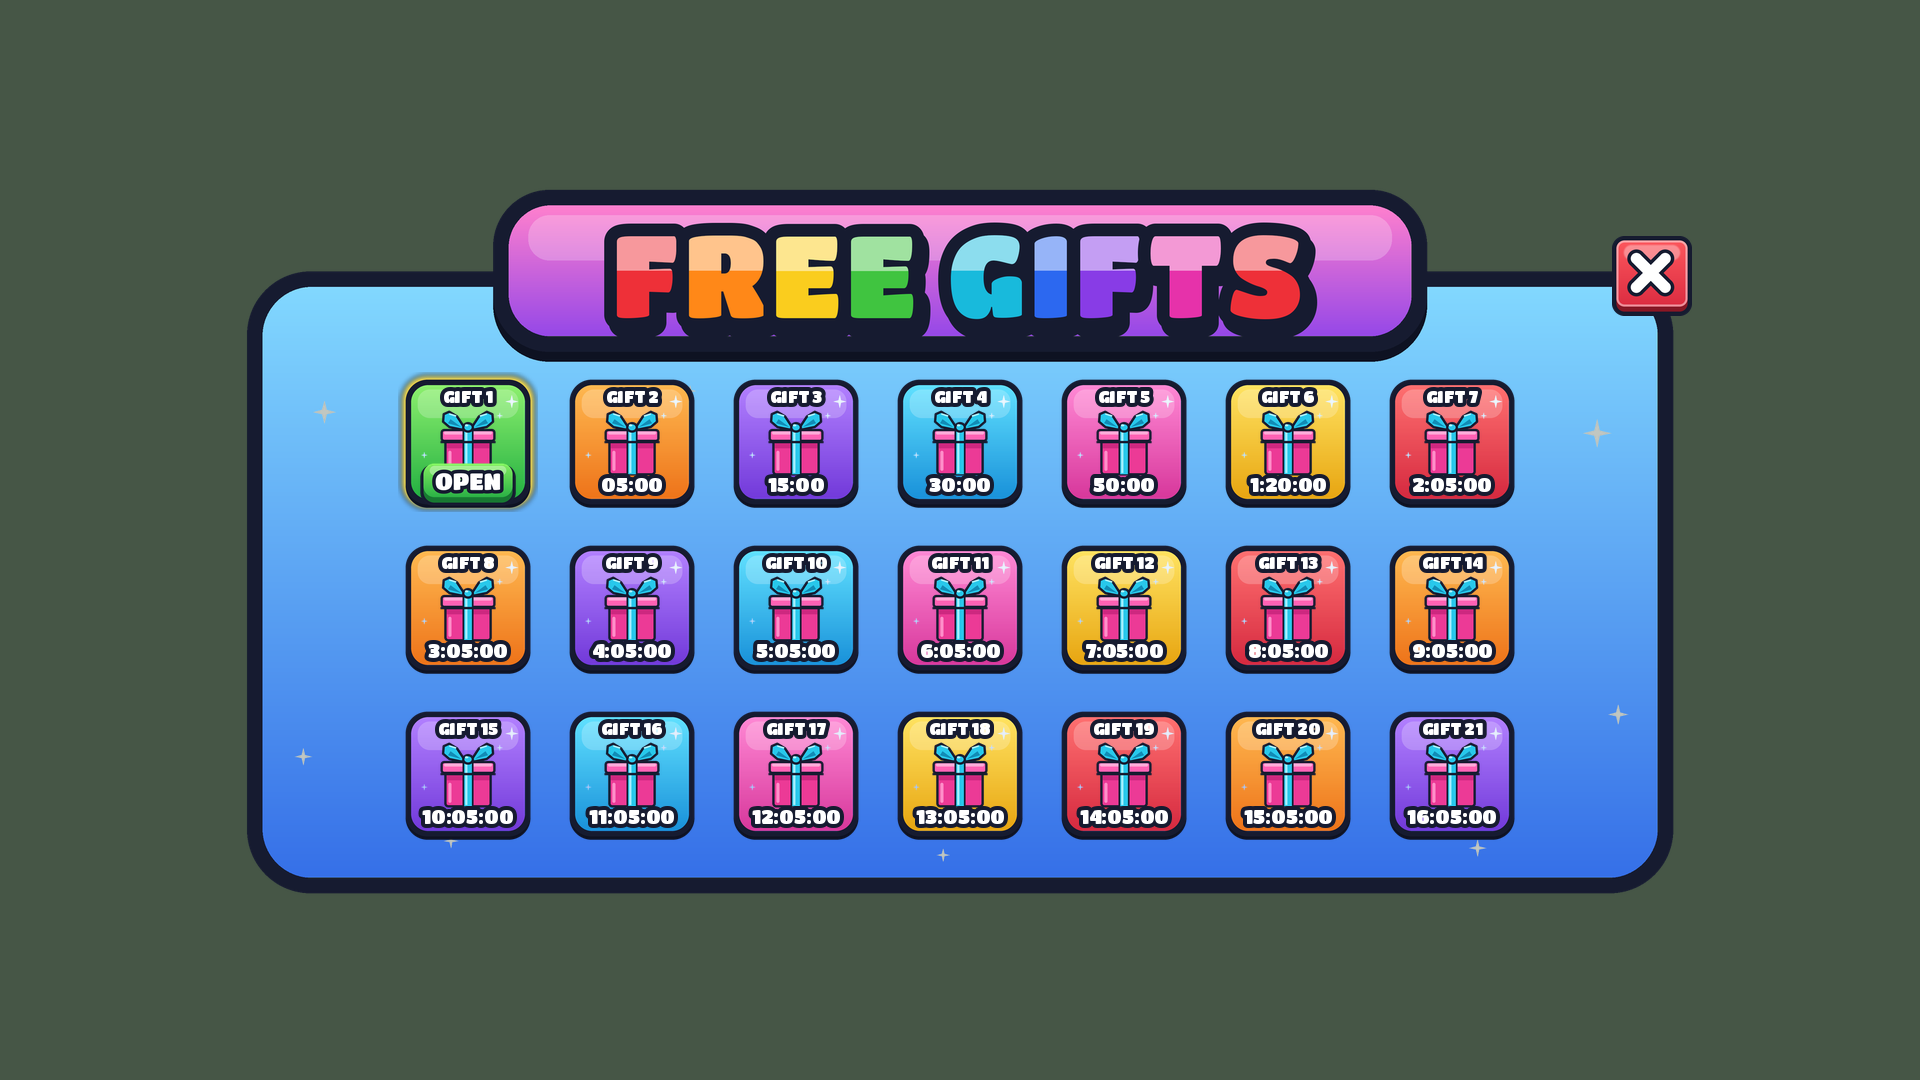
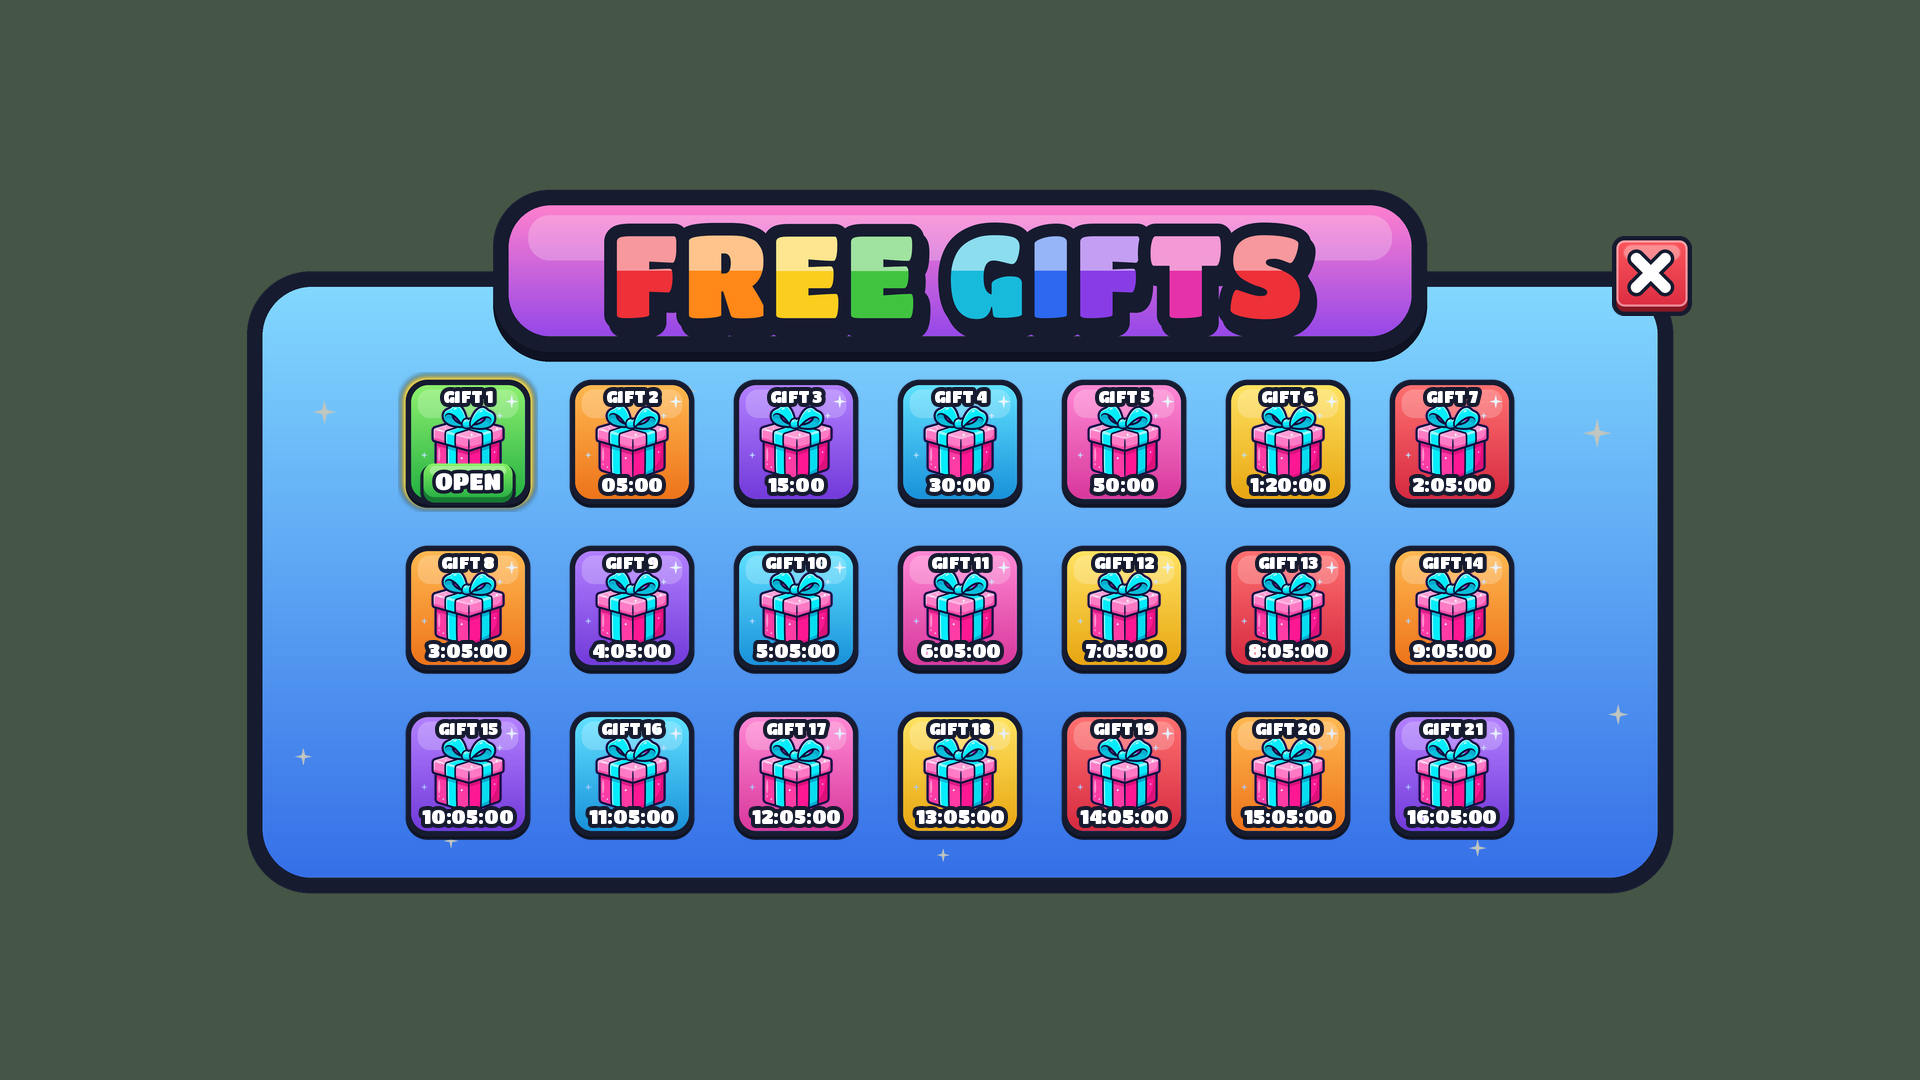
Cadeaux : icone = le cadeau Gemini du joueur, bien detoure
Claude-Session: https://claude.ai/code/session_01PMKoCjSrSzXqgN9hvh9Gpz

diff --git a/Outils/cadeau_ui.py b/Outils/cadeau_ui.py
@@ -187,13 +187,13 @@ COULEURS = [((255, 112, 112), (214, 42, 64)), ((255, 184, 80), (238, 116, 26)), 
 if __name__ == "__main__":
     os.makedirs(SORTIE, exist_ok=True)
     for vieux in os.listdir(SORTIE):
-        if vieux.endswith(".png"):
+        if vieux.endswith(".png") and vieux != "Icone_Cadeau.png":
             os.remove(os.path.join(SORTIE, vieux))
     fenetre().save(os.path.join(SORTIE, "Fenetre_Cadeaux.png"))
     for i, (h, b) in enumerate(COULEURS):
         carte(h, b).save(os.path.join(SORTIE, f"Carte_{i + 1}.png"))
     carte((140, 240, 110), (36, 176, 66), True).save(os.path.join(SORTIE, "Carte_Prete.png"))
-    icone_cadeau().save(os.path.join(SORTIE, "Icone_Cadeau.png"))
+    # Icone_Cadeau.png = le cadeau Gemini du joueur (sources/gemini_icone.webp), detoure a part
     bouton_open().save(os.path.join(SORTIE, "Bouton_Open.png"))
 
     # apercu monte exactement comme dans Verse (ecran 1920 x 1080)
